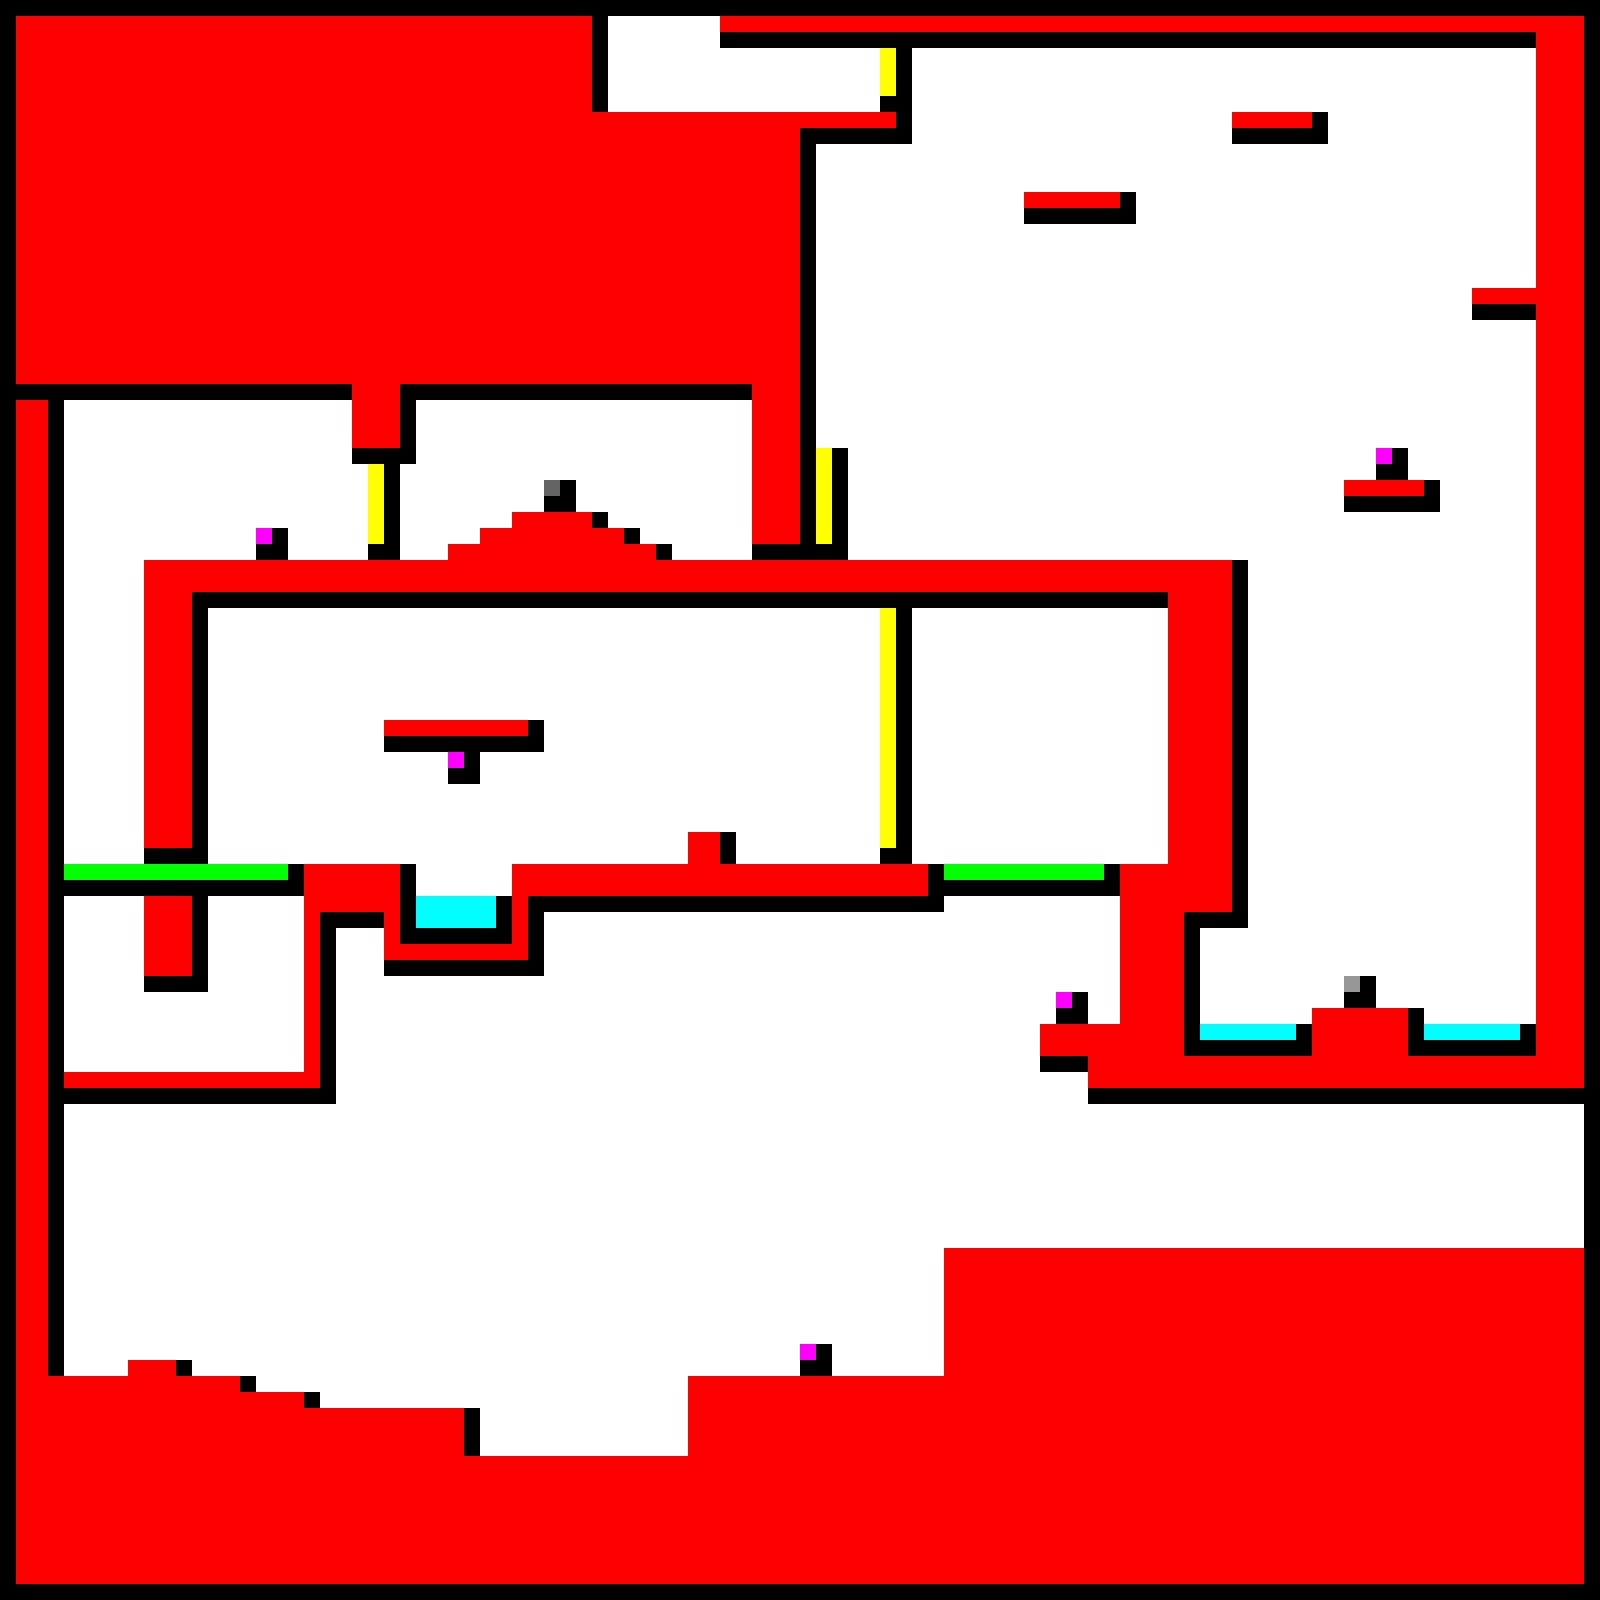
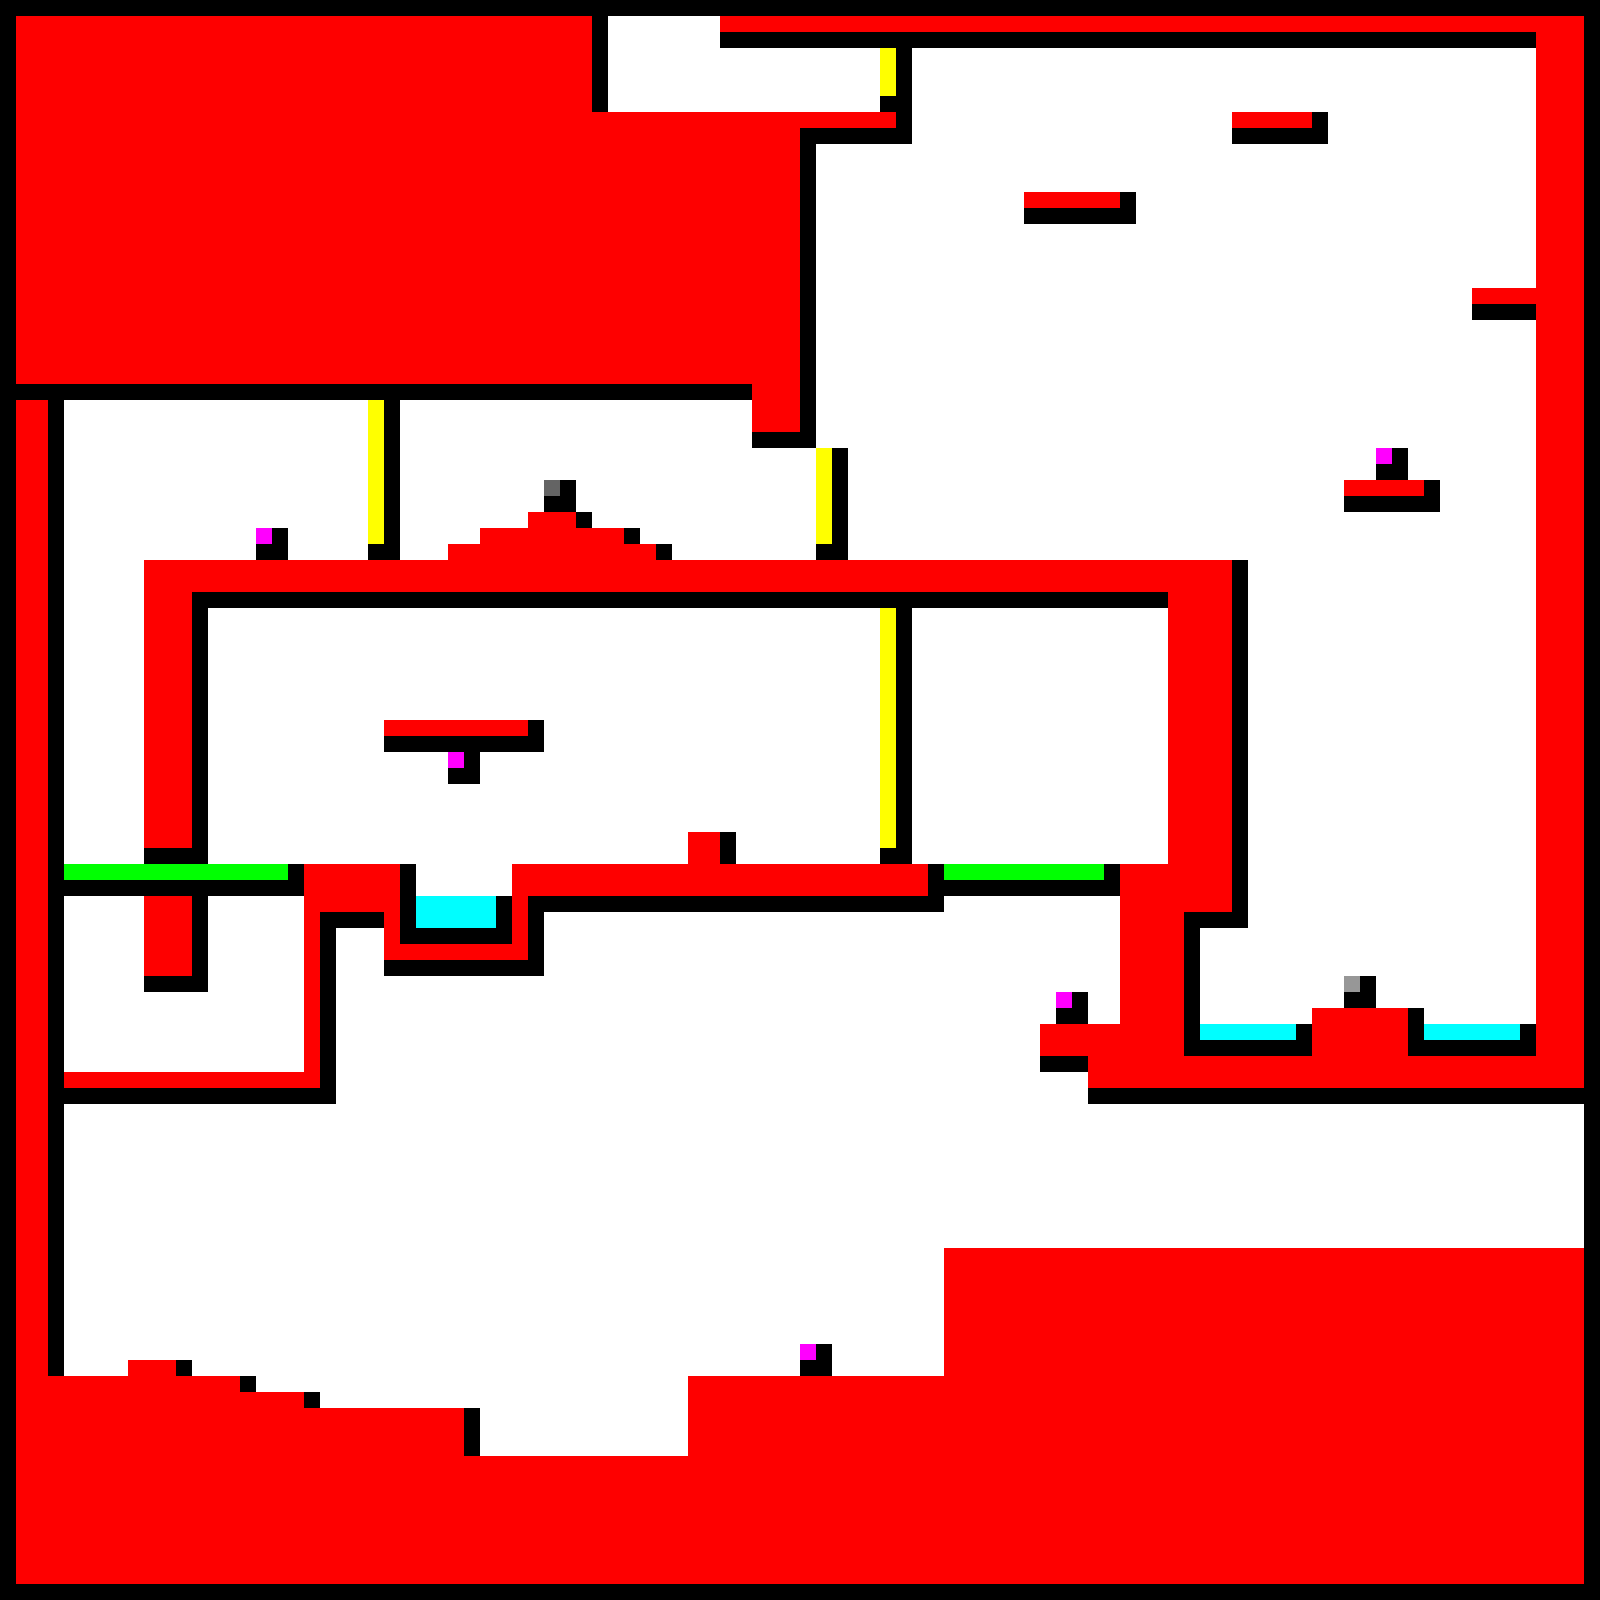
coucou

Changed region(s): [[0.4688, 0.25, 0.5312, 0.375], [0.2188, 0.2188, 0.2812, 0.3125], [0.3125, 0.3125, 0.375, 0.3438]]

diff --git a/game/level/levelController.js b/game/level/levelController.js
@@ -120,42 +120,21 @@ define(["../../loader/libraries/puppets", "../game", "./PNGParser", "./parsingFu
                                             renderBox : {
                                                 cameraPosition : cameraPosition
                                         }});
-		box = Puppets.createEntity("alreadyMovingBox", {b2polygon : {world : world,
-											x : 43,
-											y : 48.5,
-											width : 2.9,
-											restitution : 0.2,
-											friction : 100,
-											height : 10/SCALE,},
-											renderBox : {
-												cameraPosition : cameraPosition,
-                                                color : 'purple',
-                                                context : mainCanvas.canvasContext.context
-											},
-											movingBox : {
-												steps : [{
-													x : -380,
-													y : 0,
-													delay : 1,
-													pause : 3
-												}],
-												initStep : {
-													x : 380,
-													y : 0,
-													delay : 1,
-													pause : 3
-												},
-												precision : 1
-											}});
-		Puppets.addComponent(box, "phase", {
-            currentPhase : "mainCanvas",
-            defaultPhase : "mainCanvas"
-        });
+		// Puppets.addComponent(box, "phase", {
+  //           currentPhase : "mainCanvas",
+  //           defaultPhase : "mainCanvas"
+  //       });
+
+        var c = document.createElement('canvas');
+        c.width = 3200;
+        c.height = 3200;
+
+        c.getContext('2d').drawImage(Game.imagesController.images.level1, 0, 0, c.width, c.height);
 
         var level = Puppets.createEntity("draw", {
-            size : {width : 1600, height : 1600},
+            size : {width : 3200, height : 3200},
             draw : {
-                image : Game.imagesController.images.level1,
+                image : c,
                 context : mainCanvas.canvasContext.context,
                 cameraPosition : cameraPosition,
                 scale : camera.focus.scale,
@@ -167,8 +146,8 @@ define(["../../loader/libraries/puppets", "../game", "./PNGParser", "./parsingFu
         }, "world");
         Puppets.addComponent(level, "cameraReplacer", {
             multiply : false,
-            numberY : 9,
-            numberX : 9
+            numberY : 13,
+            numberX : 13
         });
         // Puppets.addComponent(level, "animation", {
         //     animations : {
@@ -188,12 +167,20 @@ define(["../../loader/libraries/puppets", "../game", "./PNGParser", "./parsingFu
         //     },
         //     currentAnimation : "main"
         // });
+        
+        var x = document.createElement('canvas');
+        x.width = 3200;
+        x.height = 3200;
+
+        x.getContext('2d').drawImage(Game.imagesController.images.level1BG, 0, 0, c.width, c.height);
+
         var bg = Puppets.createEntity("draw", {
-            size : {width : 1600, height : 1600},
+            size : {width : 3200, height : 3200},
             draw : {
-                image : Game.imagesController.images.level1BG,
+                image : x,
                 context : mainCanvas.canvasContext.context,
-                cameraPosition : cameraPosition
+                cameraPosition : cameraPosition,
+                scale : camera.focus.scale,
             }
         }, "backgrounds");
         Puppets.addComponent(bg, "cameraReplacer", {
@@ -203,7 +190,7 @@ define(["../../loader/libraries/puppets", "../game", "./PNGParser", "./parsingFu
         });
 
         window.parser = new PNGParser({
-                       size : {width : 1600, height : 1600},
+                       size : {width : 3200, height : 3200},
                        image : Game.imagesController.images.level1Builder,
                        tolerance : 250,
                        accuracy : 1,

diff --git a/game/player/config.js b/game/player/config.js
@@ -5,11 +5,11 @@ define(["../game"], function(Game){
             data : {
                 b2polygon : {
                     world : Game.worldController.world,
-                    x : 5,
-                    y : 43,
+                    x : 10,
+                    y : 80,
                     dynamic : true,
-                    width : 10/constants.SCALE,
-                    height : 10/constants.SCALE
+                    width : 50/constants.SCALE,
+                    height : 50/constants.SCALE
                 },
                 draw : {
                     context : Game.canvasController.mainCanvas.components.canvasContext.context,
@@ -21,13 +21,13 @@ define(["../game"], function(Game){
                     colorAccuracy : 5, 
                     onColorCollisionEnter : function(colors){
                         if(colors.r === 255 && colors.g === 0 && colors.b === 0){
-                            Puppets.addComponent(this.id, "b2accelerate", { speed : -5});
+                            Puppets.addComponent(this.id, "b2accelerate", { speed : -200});
                         }
                         else if(colors.g ===255 && colors.r === 0){
                             Puppets.addComponent(this.id, "b2reverseGravity", { speed : -30 });
                         }
                         else if(colors.g ===0 && colors.b === 255 && colors.r === 0){
-                            Puppets.addComponent(this.id, "b2accelerate", {speed : 5});
+                            Puppets.addComponent(this.id, "b2accelerate", {speed : 200});
                         }   
                         else if(colors.r === 255 && colors.g === 0 && colors.b === 255){
                             Puppets.addComponent(this.id, "b2reverseGravity", { speed : 30});
@@ -61,7 +61,6 @@ define(["../game"], function(Game){
                                                                 renderBox : {
                                                                     color : "rgba(0,0,0,0)",
                                                                     context : _self.components.draw.context,
-                                                                    cameraPosition : _self.components.draw.cameraPosition,
                                                                 }
                                                             }, "UI");
                         Puppets.addComponent(fade, "fadeInFadeOut", {
@@ -74,16 +73,16 @@ define(["../game"], function(Game){
                                 if(_self.components.position.lastPosition !== undefined)
                                     var newPosition = { x : _self.components.position.lastPosition.x/SCALE, y : _self.components.position.lastPosition.y/SCALE};
                                 else
-                                    var newPosition = {x : 3, y : 42};
+                                    var newPosition = {x : 3, y : 80};
 
                                 Puppets.addComponent(_self.entity, "b2polygon", {
                                     world : Game.worldController.world,
                                     x :newPosition.x,
                                     y :newPosition.y,
-                                    width : 10/SCALE,
+                                    width : 50/SCALE,
                                     dynamic : true,
                                     friction : 0,
-                                    height : 10/SCALE
+                                    height : 50/SCALE
                                 });
                             },
                             time : 2,

diff --git a/game/menus/menuController.js b/game/menus/menuController.js
@@ -11,8 +11,8 @@ define(["../../loader/libraries/puppets", "../game"], function(Puppets, Game){
                 y : 0
             },
             size : {
-                width : 600,
-                height : 400
+                width : 1200,
+                height : 768
             },
             draw : {
                 image : Game.imagesController.images.menuBG,
@@ -80,8 +80,8 @@ define(["../../loader/libraries/puppets", "../game"], function(Puppets, Game){
                 }
             },
             position : {
-                x : 110,
-                y : 120,
+                x : 450,
+                y : 310,
             },
             size : {
                 width : 421.5,
@@ -122,8 +122,8 @@ define(["../../loader/libraries/puppets", "../game"], function(Puppets, Game){
                 mouse : _self.mouseController.components,
             },
             position : {
-                x : -50,
-                y : 220,
+                x : 140,
+                y : 500,
             },
             size : {
                 width : 421.5,
@@ -164,8 +164,8 @@ button3 = Puppets.createEntity("button", {
                 mouse : _self.mouseController.components,
             },
             position : {
-                x : 240,
-                y : 300,
+                x : 600,
+                y : 650,
             },
             size : {
                 width : 421.5,

diff --git a/puppetsModules/circleRendering.js b/puppetsModules/circleRendering.js
@@ -43,7 +43,7 @@ define(["../loader/libraries/puppets", "./baseComponents"], function(Puppets){
 					var colors = this.getColors('rgba(0,0,0,0)');
 					this.circle(position.x+ cameraPosition.x, position.y+ cameraPosition.y,
 						colors[0], colors[1], colors[2], colors[3], 
-						2000, renderCircle.PIXELS_ARRAY,  radius.radius, renderCircle.isLittleEndian, true);
+						3200, renderCircle.PIXELS_ARRAY,  radius.radius, renderCircle.isLittleEndian, true);
 				}
 			}
 			else if(!renderCircle.canNotPaint){
@@ -54,7 +54,7 @@ define(["../loader/libraries/puppets", "./baseComponents"], function(Puppets){
 					var colors = this.getColors(color);
 					this.circle(position.x+ cameraPosition.x, position.y+ cameraPosition.y,
 						colors[0], colors[1], colors[2], colors[3],
-						2000, renderCircle.PIXELS_ARRAY, radius.radius, renderCircle.isLittleEndian, false);
+						3200, renderCircle.PIXELS_ARRAY, radius.radius, renderCircle.isLittleEndian, false);
 				}
 			}
 			context.restore();

diff --git a/game/level/parsingFunction.js b/game/level/parsingFunction.js
@@ -81,8 +81,8 @@ define(["../../loader/libraries/puppets", "../game"], function(Puppets, Game){
                         },
                         b2polygon : {
                             world : world,
-                            width : (shape.upperRight.x - shape.upperLeft.x +16)/SCALE/2,
-                            height : (shape.lowerLeft.y - shape.upperLeft.y +16)/SCALE/2,
+                            width : (shape.upperRight.x - shape.upperLeft.x +16)/SCALE,
+                            height : (shape.lowerLeft.y - shape.upperLeft.y +16)/SCALE,
                             dynamic : false,
                             x : ((shape.upperLeft.x+((shape.upperRight.x-shape.upperLeft.x)/2))+relativePosition.x)/SCALE,
                             y : ((shape.upperLeft.y+((shape.lowerLeft.y-shape.upperLeft.y)/2))+relativePosition.y)/SCALE,

diff --git a/puppetsModules/platformTypes.js b/puppetsModules/platformTypes.js
@@ -208,7 +208,7 @@ define(["../game/game", "../loader/libraries/box2d", "../loader/libraries/puppet
                         other.components.position.lastPosition = popPosition;
                         Game.UIController.gauge.components.gaugeComponent.currentValue = Game.constants.maxPixels;
 
-                        if(Game.constants.maxPixelsArray.length > 10000){
+                        if(Game.constants.maxPixelsArray.length > 50000){
                             for(var i in Game.constants.maxPixelsArray){
                                 Game.constants.COLORS_PIXELS[i] = 0;
                                 Game.constants.DIMENSION_PIXELS[i] = 0;

diff --git a/game/constants.js b/game/constants.js
@@ -1,15 +1,15 @@
 define(["./canvas/pixelsManager"], function(PIXELS_ARRAY){
 	return {
-		WIDTH : 2000,
-		HEIGHT : 2000,
-        PAINTWIDTH : 600,
-        PAINTHEIGHT : 400,
+		WIDTH : 3200,
+		HEIGHT : 3200,
+        PAINTWIDTH : 1200,
+        PAINTHEIGHT : 768,
 		SCALE : 30,
 		COLORS_PIXELS : PIXELS_ARRAY.COLORS_PIXELS.PIXELS_ARRAY,
         DIMENSION_PIXELS : PIXELS_ARRAY.DIMENSION_PIXELS.PIXELS_ARRAY,
 		isLittleEndian : PIXELS_ARRAY.COLORS_PIXELS.isLittleEndian,
 		maxPixelsArray : PIXELS_ARRAY.COLORS_PIXELS.maxPixelsArray,
-		maxPixels : 100000,
+		maxPixels : 20000000,
         playerMaxLife : 1,
 	}
 });

diff --git a/game/camera/config.js b/game/camera/config.js
@@ -3,14 +3,14 @@ define([], function(){
 	return {
 		maxRelativeX : 10,
 		maxRelativeY : 10,
-		minRelativeX : -50,
-		minRelativeY : -50,
+		minRelativeX : -10,
+		minRelativeY : -10,
 		minX : 0,
 		maxX : 10000,
 		maxY : 10000,
 		minY : 0,
-		width : 600,
-		height : 400,
+		width : 1200,
+		height : 768,
         pointToFocus : {
             x : 0,
             y : 0

diff --git a/game/canvas/pixelsManager.js b/game/canvas/pixelsManager.js
@@ -18,7 +18,7 @@ define([], function(){
 	}
 
 	return {
-        COLORS_PIXELS : PIXELS_ARRAY(2000*2000*4),
-        DIMENSION_PIXELS : PIXELS_ARRAY(2000*2000*4)
+        COLORS_PIXELS : PIXELS_ARRAY(3200*3200*4),
+        DIMENSION_PIXELS : PIXELS_ARRAY(3200*3200*4)
     }
 });

diff --git a/index.html b/index.html
@@ -6,8 +6,8 @@
 	<style>
 	canvas{
 		position : absolute;
-		left : calc(50% - 300px);
-		top : calc(50% - 300px);
+		left : calc(50% - 600px);
+		top : calc(50% - 400px);
 	}
     /*canvas{
         position : absolute;

diff --git a/game/UI/configColorGauge.js b/game/UI/configColorGauge.js
@@ -2,7 +2,7 @@ define(["../game"],
  function(Game){
     return {
         position : {
-            x : 570,
+            x : 1170,
             y : 5
         },
         size : {

diff --git a/game/mouse/config.js b/game/mouse/config.js
@@ -1,6 +1,6 @@
 define([], function(constants){
 	return {
-		radius : 20, 
+		radius : 50, 
 		circumference : 2,
 		color : "rgba(255,0,0,1)",
 		onMouseDown : function(){
